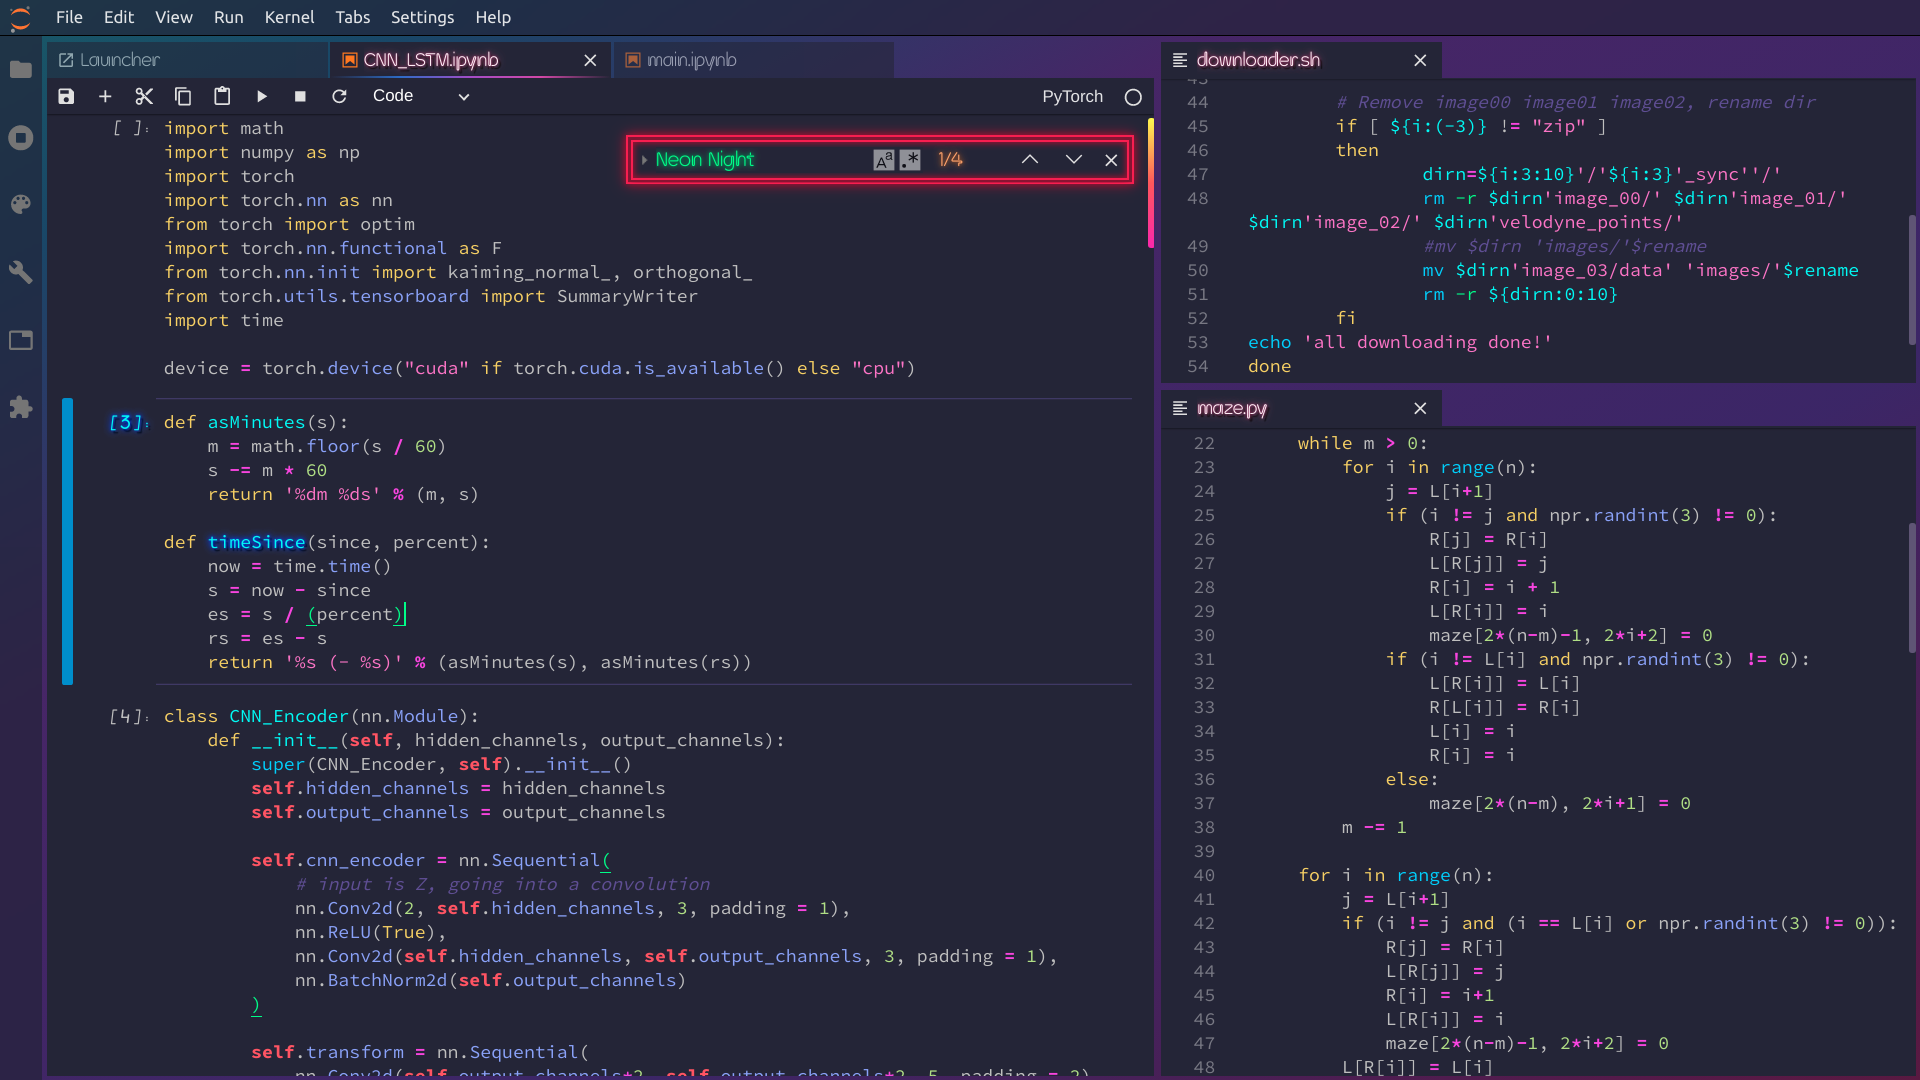
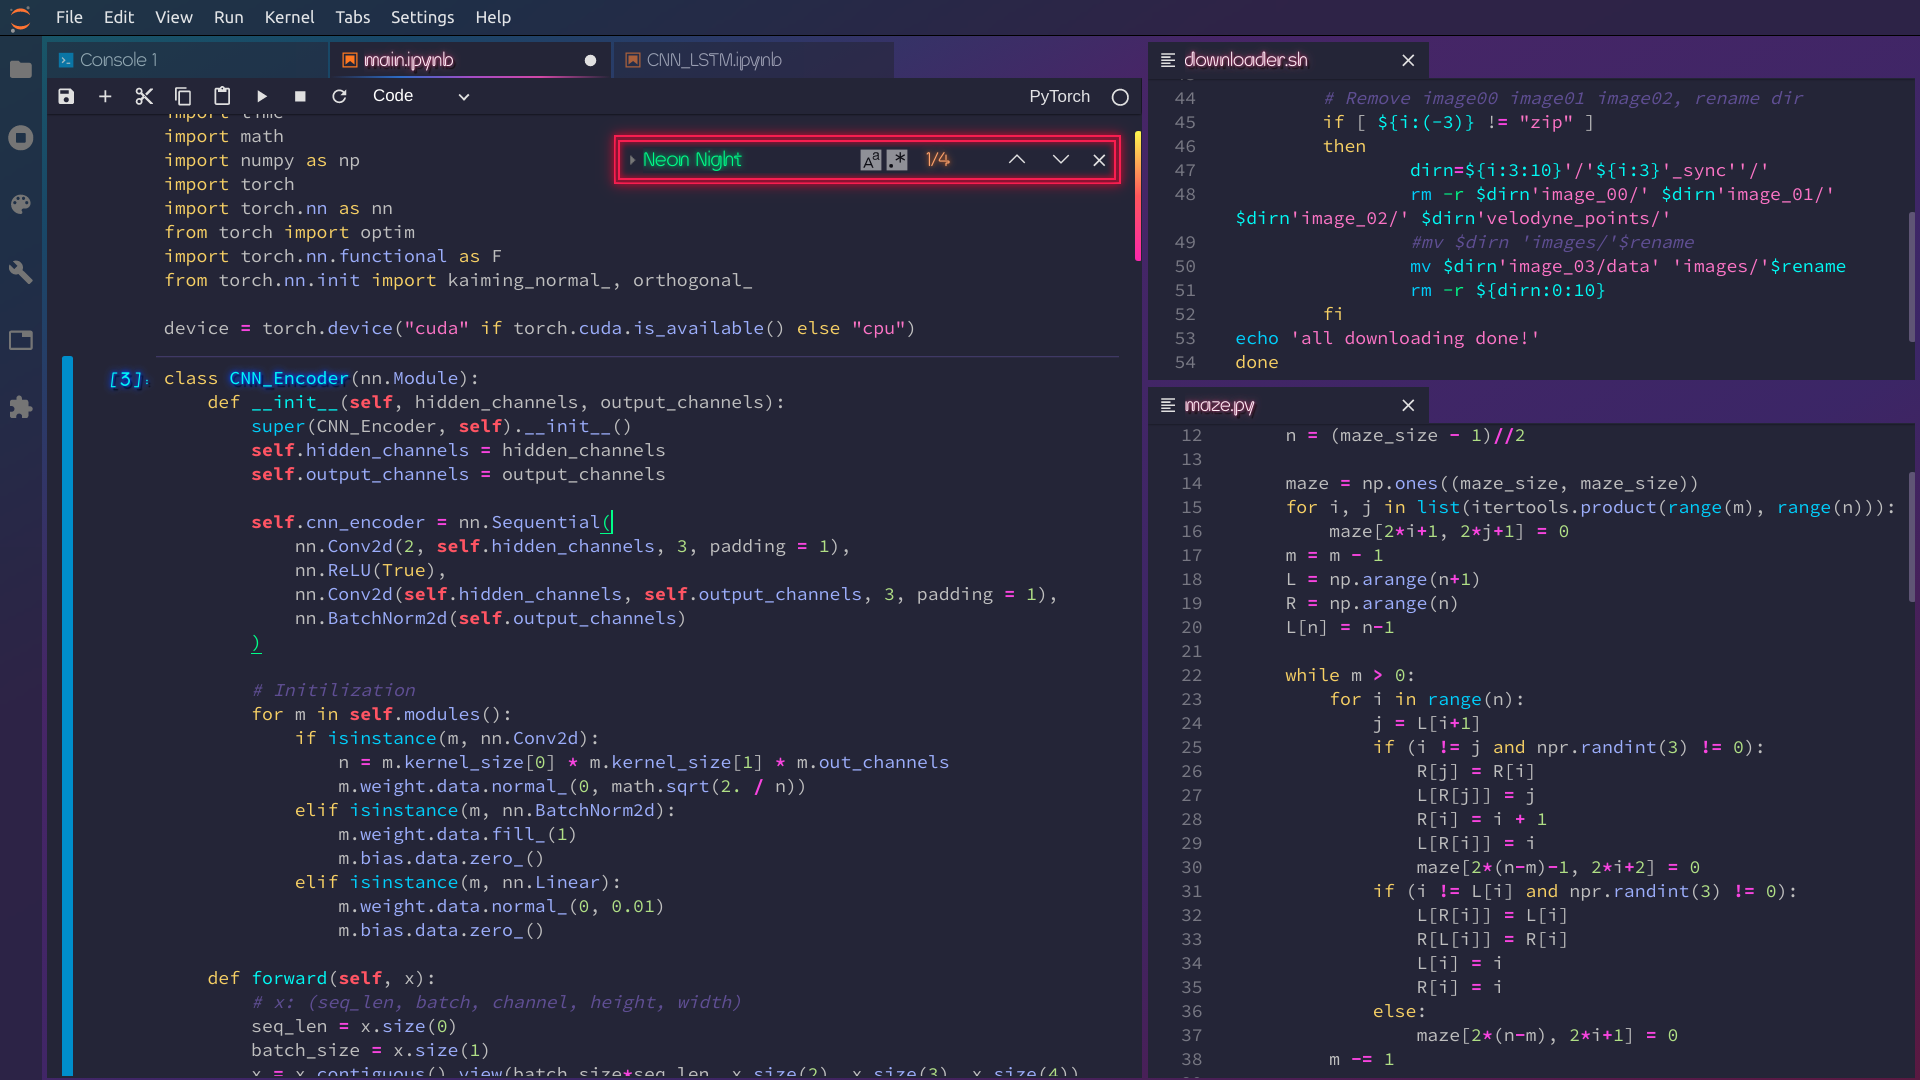
fix console layout

diff --git a/style/style.css b/style/style.css
@@ -97,7 +97,7 @@ div.CodeMirror span.CodeMirror-nonmatchingbracket {
 }
 
 .jp-Cell .jp-InputArea-editor {
-  padding: 3px 0;
+  padding: 2px 0;
 }
 
 .jp-OutputArea-child .jp-RenderedImage.jp-OutputArea-output{
@@ -111,8 +111,8 @@ div.CodeMirror span.CodeMirror-nonmatchingbracket {
   border-radius: 5px;
 }
 
-.jp-Cell {
-  padding: 3px 0;
+.jp-Cell, .jp-CodeConsole .jp-Cell {
+  padding: 2px 0;
 }
 
 /* Notebook prompt */
@@ -138,43 +138,47 @@ div.CodeMirror span.CodeMirror-nonmatchingbracket {
 }
 
 /* Notebook collapser */
-.jp-Notebook .jp-Cell .jp-Collapser:hover {
+.jp-Cell .jp-Collapser:hover {
   box-shadow: none;
 }
 
-.jp-Notebook .jp-Cell .jp-Collapser {
+.jp-Cell .jp-Collapser {
   opacity: 0;
 }
 
+.jp-CodeConsole-content .jp-Cell .jp-Collapser:hover {
+  opacity: 1;
+  box-shadow: none;
+}
+
 /* Neon off*/
-.jp-Notebook .jp-Cell.jp-mod-active .jp-InputCollapser.jp-Cell-inputCollapser, 
+.jp-Cell.jp-mod-active .jp-InputCollapser.jp-Cell-inputCollapser, 
 .jp-InputCollapser.jp-Cell-inputCollapser.jp-Collapser, 
 .jp-InputCollapser.jp-Cell-inputCollapser.jp-Collapser:hover{
   background: var(--neon-night-blue1);
 }
 
-.jp-Notebook .jp-Cell.jp-mod-active .jp-OutputCollapser.jp-Cell-outputCollapser,
+.jp-Cell.jp-mod-active .jp-OutputCollapser.jp-Cell-outputCollapser,
 .jp-OutputCollapser.jp-Cell-outputCollapser.jp-Collapser, 
 .jp-OutputCollapser.jp-Cell-outputCollapser.jp-Collapser:hover{
   background: var(--neon-night-peach1);
 }
 
-.jp-Notebook .jp-Cell.jp-mod-active .jp-InputCollapser.jp-Cell-inputCollapser,
-.jp-Notebook .jp-Cell.jp-mod-active .jp-OutputCollapser.jp-Cell-outputCollapser {
+.jp-Cell.jp-mod-active .jp-InputCollapser.jp-Cell-inputCollapser,
+.jp-Cell.jp-mod-active .jp-OutputCollapser.jp-Cell-outputCollapser {
   transition: box-shadow cubic-bezier(0, 0.2, 0, 0.2) 0.5s, background cubic-bezier(0, 0.2, 0, 0.2) 0.5s;
   opacity: 1;
 }
 
 /* Neon on*/
-.jp-Notebook .jp-Cell.jp-mod-active .jp-InputCollapser.jp-Cell-inputCollapser:hover {
+.jp-Cell.jp-mod-active .jp-InputCollapser.jp-Cell-inputCollapser:hover {
   background: var(--neon-night-cyan);
-  box-shadow: 1px 1px 1px, 0 0 15px #0225ff, 0 0 5px 0.1px #0225ff, inset 0 0 1px 0.2px #0225ff;
+  box-shadow: 0 0 1px, 0 0 15px #0225ff, 0 0 5px 0.1px #0225ff, inset 0 0 1px 0.2px #0225ff;
 }
 
-.jp-Notebook .jp-Cell.jp-mod-active .jp-OutputCollapser.jp-Cell-outputCollapser:hover {
+.jp-Cell.jp-mod-active .jp-OutputCollapser.jp-Cell-outputCollapser:hover {
   background: #ffc8e0;
-  box-shadow: 
-  1px 1px 1px, 0 0 15px #c10165, 0 0 5px 0.1px #c10165, inset 0 0 1px 0.2px #c10165;
+  box-shadow: 0 0 1px, 0 0 15px #c10165, 0 0 5px 0.1px #c10165, inset 0 0 1px 0.2px #c10165;
 }
 
 .cm-s-jupyter span.cm-def {

diff --git a/style/variables.css b/style/variables.css
@@ -37,7 +37,7 @@ all of MD as it is not optimized for dense, information rich UIs.
    --neon-night-peach1: #cb4d8e;
    --neon-night-pink: #f98478;
    --neon-night-purple0:#ef38e3;
-   --neon-night-purple1:#929dfd;
+   --neon-night-purple1:#a2aaff;
    --neon-night-purple2:#f471c8;
    --neon-night-purple3:#DF81FC;
    --neon-night-purple4:#604a96;
@@ -298,10 +298,10 @@ all of MD as it is not optimized for dense, information rich UIs.
   --jp-cell-prompt-not-active-font-color: var(--neon-night-fg0);
   /* A custom blend of MD grey and blue 600
    * See https://meyerweb.com/eric/tools/color-blend/#546E7A:1E88E5:5:hex */
-  --jp-cell-inprompt-font-color: var(--neon-night-blue0);
+  --jp-cell-inprompt-font-color: var(--neon-night-cyan);
   /* A custom blend of MD grey and orange 600
    * https://meyerweb.com/eric/tools/color-blend/#546E7A:F4511E:5:hex */
-  --jp-cell-outprompt-font-color:  var(--neon-night-peach1);
+  --jp-cell-outprompt-font-color:  #ffc8e0;
 
   /* Notebook specific styles */
 
@@ -332,7 +332,7 @@ all of MD as it is not optimized for dense, information rich UIs.
 
   /* Console specific styles */
 
-  --jp-console-padding: 10px;
+  --jp-console-padding: 12px;
 
   /* Toolbar specific styles */
 

diff --git a/README.md b/README.md
@@ -7,14 +7,18 @@ A flat, 80's neon inspired theme for JupyterLab.
 
 This theme is hightly inspired by artworks of 80's Neon, Synthwave and Cyberpunk. It is optimized for **long-term use** but colorful and cooool.
 
+
 ## Bonuses
 1. Search tool + neon billboard
 2. Collapser + neon light
 3. Scrollbar + FM-84's "Atlas"  (compatible with Chrome)
 4. A surprise in the presentation mode (Top menu --> View --> Presention mode)
 
+
 ## Customize
-You may don't like the default background or the transparent UI, so codes of these controversial designs are put separately into [`custom.css`](https://github.com/yeebc/jupyterlab-neon-theme/tree/master/style/custom.css) and commented detaily for you to customize.
+You may don't like the default background or the transparent UI, so codes of these controversial designs are put separately into [`custom.css`](https://github.com/yeebc/jupyterlab-neon-theme/tree/master/style/custom.css) and commented detaily for you to customize. 
+
+After you edited css files, please follow instructions the [Development installation](https://github.com/yeebc/jupyterlab-neon-theme#development-installation) to reinstall.
 
 ### 1. Transparent left/top bar
 PLease follow the comments to ajust the transparency.
@@ -32,15 +36,17 @@ To change fonts of editor and neon, firstly, add your font files to [`fonts`](ht
 
 * JupyterLab >= 1.1.0
 
-## Installation
+
+## Package installation
 
 ```bash
 jupyter labextension install @yeebc/jupyterlab_neon_theme
 ```
 
-## Development
 
-For a development install (requires npm version 4 or later), do the following in the repository directory:
+## Development installation
+
+For a development install (requires npm version 4 or later), clone the github repo and do the following in the repository directory:
 
 ```bash
 npm install
@@ -53,6 +59,7 @@ To rebuild the package and the JupyterLab app:
 npm run build
 jupyter lab build
 ```
+
 
 ## Thanks
 You may also like  [SynthWave '84](https://github.com/robb0wen/synthwave-vscode), my favorite VS Code theme,  with similar style and  it is more compatible with HTML & CSS, JS.
